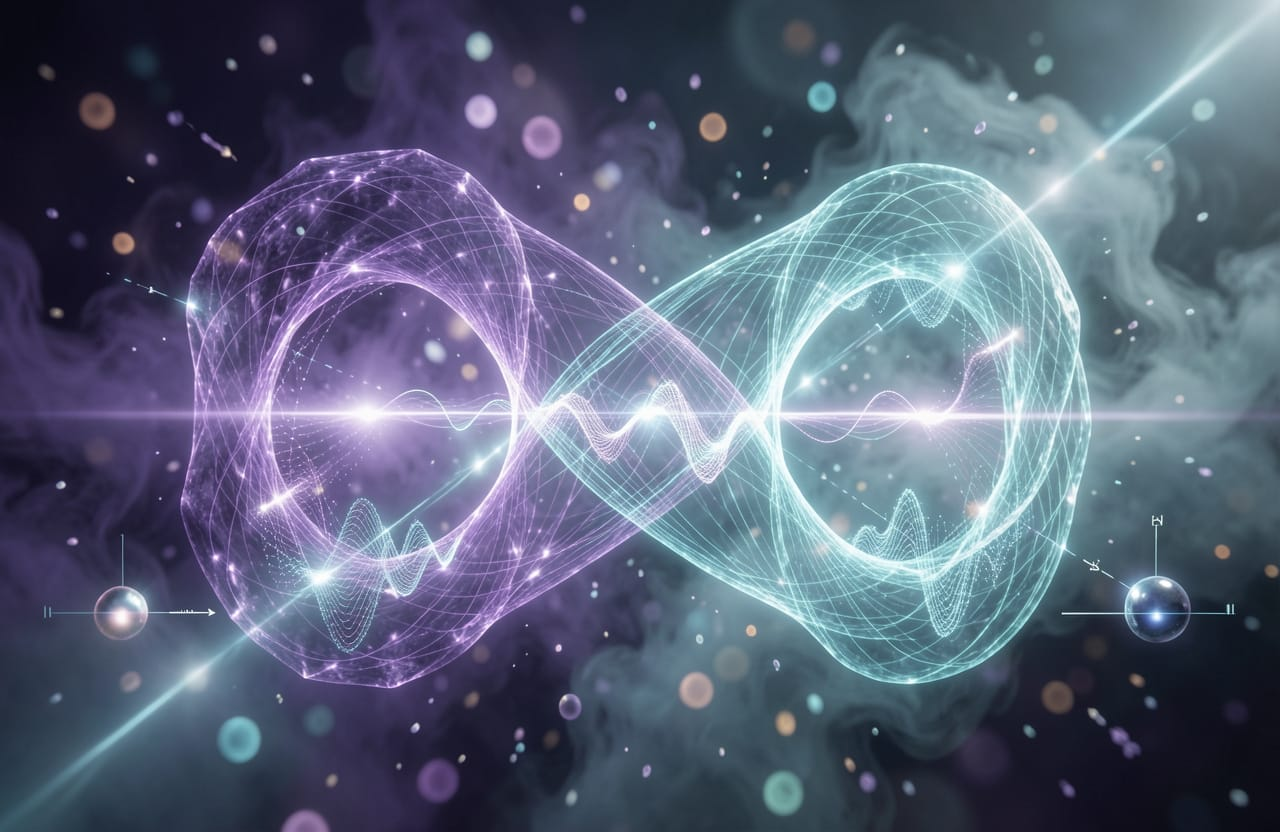
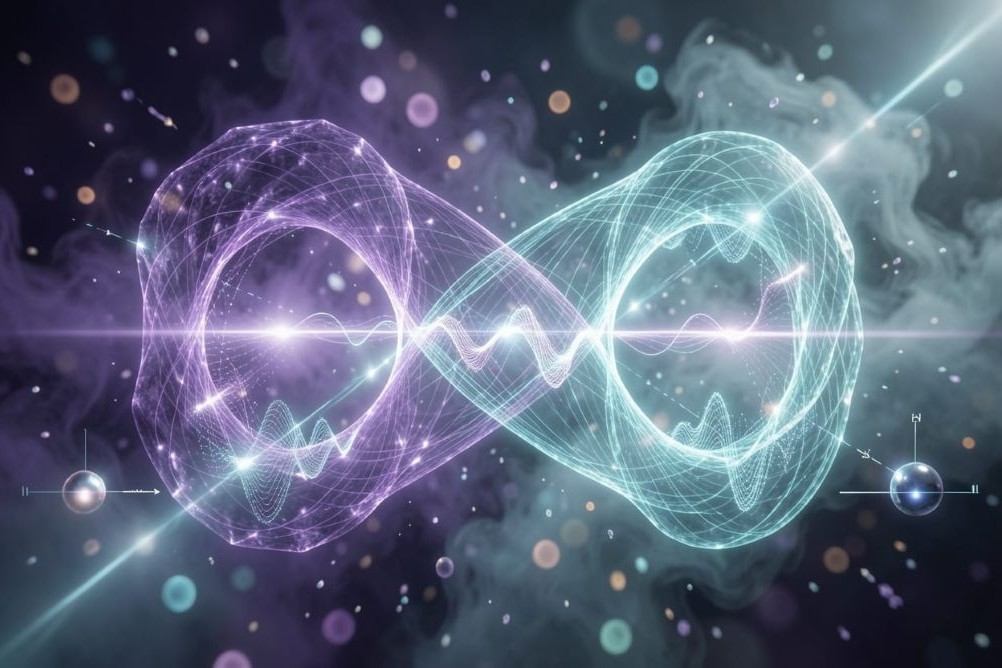
Refresh Why Quantum Simplex images and copy, minor SVG formatting
Swap Why-QS3 to jpg, update level copy for clarity, and fix CTA
banner comment indentation.

diff --git a/src/app/about/page.tsx b/src/app/about/page.tsx
@@ -39,24 +39,24 @@ export default function AboutPage() {
             </div>
             <div className="qs-abt-portrait-links">
               <a href="https://about.me/michael_wu" target="_blank" rel="noopener noreferrer" className="qs-about-link qs-aboutme-link">
-                <svg viewBox="0 0 24 24" fill="currentColor" width="14" height="14" aria-hidden="true"><path d="M12 2C6.48 2 2 6.48 2 12s4.48 10 10 10 10-4.48 10-10S17.52 2 12 2zm0 3c1.66 0 3 1.34 3 3s-1.34 3-3 3-3-1.34-3-3 1.34-3 3-3zm0 14.2c-2.5 0-4.71-1.28-6-3.22.03-1.99 4-3.08 6-3.08 1.99 0 5.97 1.09 6 3.08-1.29 1.94-3.5 3.22-6 3.22z"/></svg>
+                <svg viewBox="0 0 24 24" fill="currentColor" width="14" height="14" aria-hidden="true"><path d="M12 2C6.48 2 2 6.48 2 12s4.48 10 10 10 10-4.48 10-10S17.52 2 12 2zm0 3c1.66 0 3 1.34 3 3s-1.34 3-3 3-3-1.34-3-3 1.34-3 3-3zm0 14.2c-2.5 0-4.71-1.28-6-3.22.03-1.99 4-3.08 6-3.08 1.99 0 5.97 1.09 6 3.08-1.29 1.94-3.5 3.22-6 3.22z" /></svg>
                 about.me ↗
               </a>
               <div className="qs-social-icons">
                 <a href="https://www.linkedin.com/in/michaelwuphd" target="_blank" rel="noopener noreferrer" className="qs-social-icon" aria-label="LinkedIn" title="LinkedIn">
-                  <svg viewBox="0 0 24 24" fill="currentColor" width="26" height="26"><path d="M20.447 20.452h-3.554v-5.569c0-1.328-.027-3.037-1.852-3.037-1.853 0-2.136 1.445-2.136 2.939v5.667H9.351V9h3.414v1.561h.046c.477-.9 1.637-1.85 3.37-1.85 3.601 0 4.267 2.37 4.267 5.455v6.286zM5.337 7.433c-1.144 0-2.063-.926-2.063-2.065 0-1.138.92-2.063 2.063-2.063 1.14 0 2.064.925 2.064 2.063 0 1.139-.925 2.065-2.064 2.065zm1.782 13.019H3.555V9h3.564v11.452zM22.225 0H1.771C.792 0 0 .774 0 1.729v20.542C0 23.227.792 24 1.771 24h20.451C23.2 24 24 23.227 24 22.271V1.729C24 .774 23.2 0 22.222 0h.003z"/></svg>
+                  <svg viewBox="0 0 24 24" fill="currentColor" width="26" height="26"><path d="M20.447 20.452h-3.554v-5.569c0-1.328-.027-3.037-1.852-3.037-1.853 0-2.136 1.445-2.136 2.939v5.667H9.351V9h3.414v1.561h.046c.477-.9 1.637-1.85 3.37-1.85 3.601 0 4.267 2.37 4.267 5.455v6.286zM5.337 7.433c-1.144 0-2.063-.926-2.063-2.065 0-1.138.92-2.063 2.063-2.063 1.14 0 2.064.925 2.064 2.063 0 1.139-.925 2.065-2.064 2.065zm1.782 13.019H3.555V9h3.564v11.452zM22.225 0H1.771C.792 0 0 .774 0 1.729v20.542C0 23.227.792 24 1.771 24h20.451C23.2 24 24 23.227 24 22.271V1.729C24 .774 23.2 0 22.222 0h.003z" /></svg>
                 </a>
                 <a href="https://github.com/quantumSimpleX" target="_blank" rel="noopener noreferrer" className="qs-social-icon" aria-label="GitHub" title="GitHub">
-                  <svg viewBox="0 0 24 24" fill="currentColor" width="26" height="26"><path d="M12 .297c-6.63 0-12 5.373-12 12 0 5.303 3.438 9.8 8.205 11.385.6.113.82-.258.82-.577 0-.285-.01-1.04-.015-2.04-3.338.724-4.042-1.61-4.042-1.61C4.422 18.07 3.633 17.7 3.633 17.7c-1.087-.744.084-.729.084-.729 1.205.084 1.838 1.236 1.838 1.236 1.07 1.835 2.809 1.305 3.495.998.108-.776.417-1.305.76-1.605-2.665-.3-5.466-1.332-5.466-5.93 0-1.31.465-2.38 1.235-3.22-.135-.303-.54-1.523.105-3.176 0 0 1.005-.322 3.3 1.23.96-.267 1.98-.399 3-.405 1.02.006 2.04.138 3 .405 2.28-1.552 3.285-1.23 3.285-1.23.645 1.653.24 2.873.12 3.176.765.84 1.23 1.91 1.23 3.22 0 4.61-2.805 5.625-5.475 5.92.42.36.81 1.096.81 2.22 0 1.606-.015 2.896-.015 3.286 0 .315.21.69.825.57C20.565 22.092 24 17.592 24 12.297c0-6.627-5.373-12-12-12"/></svg>
+                  <svg viewBox="0 0 24 24" fill="currentColor" width="26" height="26"><path d="M12 .297c-6.63 0-12 5.373-12 12 0 5.303 3.438 9.8 8.205 11.385.6.113.82-.258.82-.577 0-.285-.01-1.04-.015-2.04-3.338.724-4.042-1.61-4.042-1.61C4.422 18.07 3.633 17.7 3.633 17.7c-1.087-.744.084-.729.084-.729 1.205.084 1.838 1.236 1.838 1.236 1.07 1.835 2.809 1.305 3.495.998.108-.776.417-1.305.76-1.605-2.665-.3-5.466-1.332-5.466-5.93 0-1.31.465-2.38 1.235-3.22-.135-.303-.54-1.523.105-3.176 0 0 1.005-.322 3.3 1.23.96-.267 1.98-.399 3-.405 1.02.006 2.04.138 3 .405 2.28-1.552 3.285-1.23 3.285-1.23.645 1.653.24 2.873.12 3.176.765.84 1.23 1.91 1.23 3.22 0 4.61-2.805 5.625-5.475 5.92.42.36.81 1.096.81 2.22 0 1.606-.015 2.896-.015 3.286 0 .315.21.69.825.57C20.565 22.092 24 17.592 24 12.297c0-6.627-5.373-12-12-12" /></svg>
                 </a>
                 <a href="https://www.youtube.com/@quantsimplex" target="_blank" rel="noopener noreferrer" className="qs-social-icon" aria-label="YouTube" title="YouTube">
-                  <svg viewBox="0 0 24 24" fill="currentColor" width="26" height="26"><path d="M23.495 6.205a3.007 3.007 0 0 0-2.088-2.088c-1.87-.501-9.396-.501-9.396-.501s-7.507-.01-9.396.501A3.007 3.007 0 0 0 .527 6.205a31.247 31.247 0 0 0-.522 5.805 31.247 31.247 0 0 0 .522 5.783 3.007 3.007 0 0 0 2.088 2.088c1.868.502 9.396.502 9.396.502s7.506 0 9.396-.502a3.007 3.007 0 0 0 2.088-2.088 31.247 31.247 0 0 0 .5-5.783 31.247 31.247 0 0 0-.5-5.805zM9.609 15.601V8.408l6.264 3.602z"/></svg>
+                  <svg viewBox="0 0 24 24" fill="currentColor" width="26" height="26"><path d="M23.495 6.205a3.007 3.007 0 0 0-2.088-2.088c-1.87-.501-9.396-.501-9.396-.501s-7.507-.01-9.396.501A3.007 3.007 0 0 0 .527 6.205a31.247 31.247 0 0 0-.522 5.805 31.247 31.247 0 0 0 .522 5.783 3.007 3.007 0 0 0 2.088 2.088c1.868.502 9.396.502 9.396.502s7.506 0 9.396-.502a3.007 3.007 0 0 0 2.088-2.088 31.247 31.247 0 0 0 .5-5.783 31.247 31.247 0 0 0-.5-5.805zM9.609 15.601V8.408l6.264 3.602z" /></svg>
                 </a>
                 <a href="https://scholar.google.com/citations?user=8lMkEWMAAAAJ&hl=en&authuser=1" target="_blank" rel="noopener noreferrer" className="qs-social-icon" aria-label="Google Scholar" title="Google Scholar">
-                  <svg viewBox="0 0 24 24" fill="currentColor" width="26" height="26"><path d="M5.242 13.769L0 9.5 12 0l12 9.5-5.242 4.269C17.548 11.249 14.978 9.5 12 9.5c-2.977 0-5.548 1.748-6.758 4.269zM12 10a7 7 0 1 0 0 14 7 7 0 0 0 0-14z"/></svg>
+                  <svg viewBox="0 0 24 24" fill="currentColor" width="26" height="26"><path d="M5.242 13.769L0 9.5 12 0l12 9.5-5.242 4.269C17.548 11.249 14.978 9.5 12 9.5c-2.977 0-5.548 1.748-6.758 4.269zM12 10a7 7 0 1 0 0 14 7 7 0 0 0 0-14z" /></svg>
                 </a>
                 <a href="https://x.com/mich8elwu" target="_blank" rel="noopener noreferrer" className="qs-social-icon" aria-label="X (Twitter)" title="X (Twitter)">
-                  <svg viewBox="0 0 24 24" fill="currentColor" width="26" height="26"><path d="M18.244 2.25h3.308l-7.227 8.26 8.502 11.24H16.17l-4.714-6.231-5.401 6.231H2.747l7.73-8.835L1.254 2.25H8.08l4.713 6.231zm-1.161 17.52h1.833L7.084 4.126H5.117z"/></svg>
+                  <svg viewBox="0 0 24 24" fill="currentColor" width="26" height="26"><path d="M18.244 2.25h3.308l-7.227 8.26 8.502 11.24H16.17l-4.714-6.231-5.401 6.231H2.747l7.73-8.835L1.254 2.25H8.08l4.713 6.231zm-1.161 17.52h1.833L7.084 4.126H5.117z" /></svg>
                 </a>
               </div>
             </div>
@@ -112,20 +112,20 @@ export default function AboutPage() {
               <div className="qs-why-level-body">
                 <img src="/images/Why-QS2.jpg" alt="Simplexes of increasing dimension, from a point to a tetrahedron" className="qs-why-level-img" />
                 <ul className="qs-why-level-list">
-                  <li><strong>Quantum:</strong> a world that seems to defy reality with entanglement, superposition, and wave-particle duality.</li>
+                  <li><strong>Quantum Mechanics:</strong> the subatomic reality of a seemingly impossible world that operates under strange principles of entanglement and wave-particle duality.</li>
                   <li><strong>The Simplex Algorithm:</strong> A linear programming method that optimizes an objective under constraints.</li>
-                  <li><strong>Quantum Simplex:</strong> where we help companies optimize their AI to achieve the unrealistic 10x expectations under real-world constraints.</li>
+                  <li><strong>Quantum Simplex:</strong> where we help companies optimize their AI to achieve the seemingly impossible +10x productivity under real-world constraints.</li>
                 </ul>
               </div>
             </div>
             <div className="qs-why-level qs-why-level--image" data-reveal="" data-delay="3">
               <span className="qs-why-level-h c-ink">Level 3</span>
               <div className="qs-why-level-body">
-                <img src="/images/Why-QS3.png" alt="Diagram of a probability simplex with coordinates summing to one" className="qs-why-level-img" />
+                <img src="/images/Why-QS3.jpg" alt="Diagram of a probability simplex with coordinates summing to one" className="qs-why-level-img" />
                 <ul className="qs-why-level-list">
-                  <li><strong>Quantum Computing:</strong> a qubit (quantum bit) exists in superposition until measurement collapses it into one definite, observable state.</li>
-                  <li><strong>A Probability k-Simplex:</strong> a (k−1)-dimensional subspace with positive coordinates summing to 1, representing all possible discrete probability distributions.</li>
-                  <li><strong>Quantum Simplex:</strong> where we help enterprises collapse AI&apos;s infinite possibilities into the single strategy with the highest probability of success and an observable ROI.</li>
+                  <li><strong>Quantum Computing:</strong> a qubit (quantum bit) exists in superposition until measurement collapses it into one observable state.</li>
+                  <li><strong>A k-Simplex:</strong> a (k−1)-dimensional subspace with positive coordinates summing to 1, representing all possible discrete probability distributions.</li>
+                  <li><strong>Quantum Simplex:</strong> where we help enterprises collapse the infinite possibilities of AI into a single actionable strategy with observable ROI.</li>
                 </ul>
               </div>
             </div>
@@ -160,7 +160,7 @@ export default function AboutPage() {
         </div>
       </section>
 
-{/* CTA BANNER */}
+      {/* CTA BANNER */}
       <section className="qs-cta-banner">
         <div className="qs-cta-inner">
           <div>
